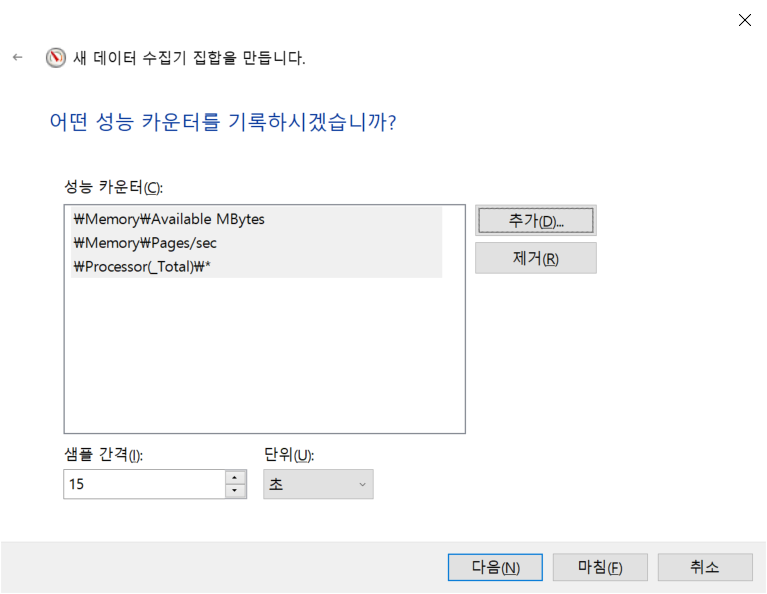
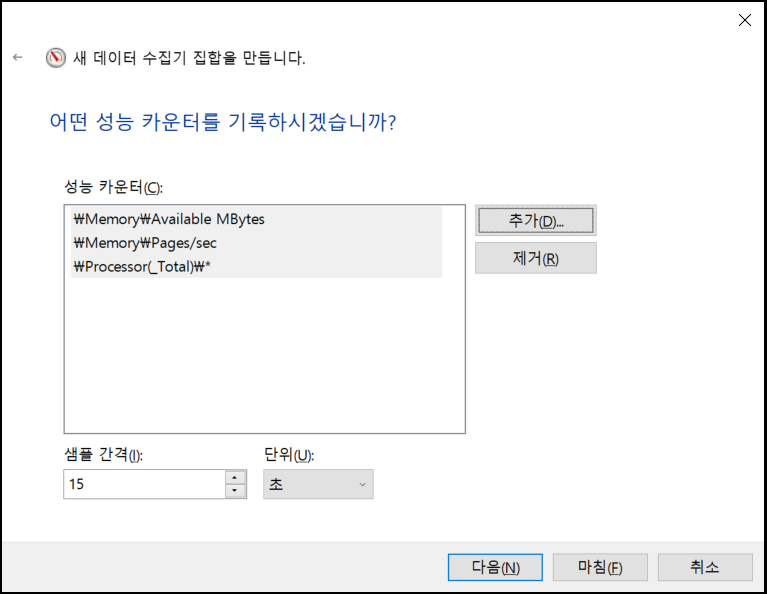
수정

Changed region(s): [[0.0, 0.0, 1.0, 1.0]]

diff --git a/MainContent/CreatingBaseline.md b/MainContent/CreatingBaseline.md
@@ -98,10 +98,10 @@ processor queue length와 같은 queue 카운터들은 VM에서도 그대로 적
 
 성능모니터 > 데이터 수집기 집합 > 사용자 정의 > 오른쪽 마우스 클릭 > 새로 만들기 > 데이터 수집기 집합  
 이름을 지정하고 "수동으로 만들기(고급)" 을 선택하고 다음을 누른다.  
-<img src = "image/07/CounterLog01.PNG" width="45%" border="5">
+<img src = "image/07/CounterLog01.PNG" width="45%">
 
 어떤 형식의 데이터를 선택하는 화면이 뜨는데 "성능 카운터" 선택하고 다음을 누른다.  
-<img src = "image/07/CounterLog02.PNG" width="45%" border="5">
+<img src = "image/07/CounterLog02.PNG" width="45%">
 
 원하는 성능 카운터들을 추가하고 데이터를 수집할 샘플 간격을 초단위로 입력하고 다음을 누른다.  
 <img src = "image/07/CounterLog03.PNG" width="45%">    
